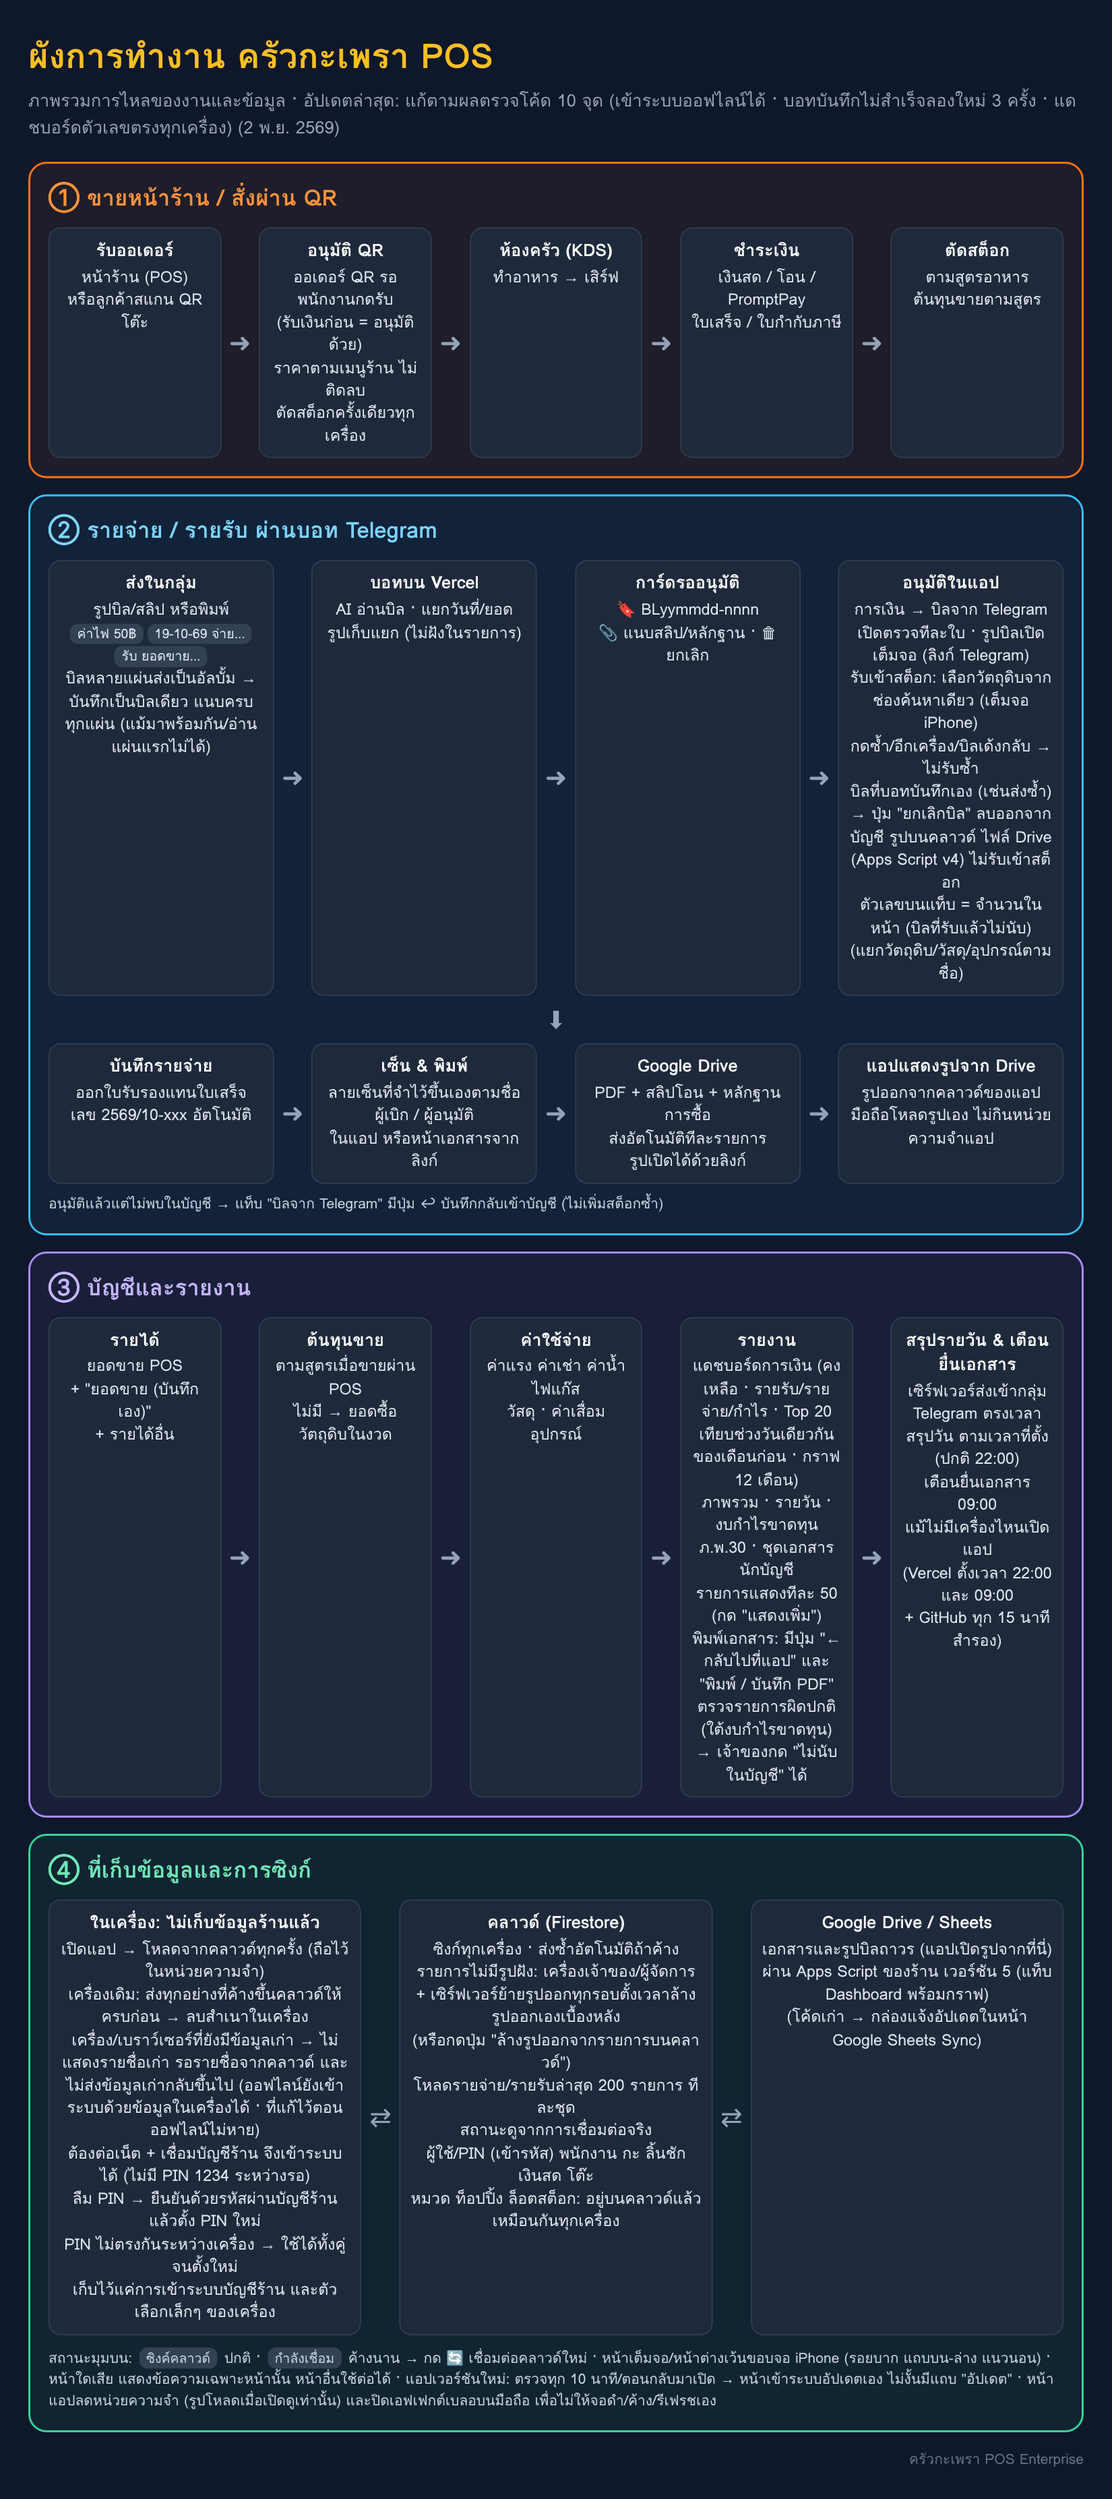
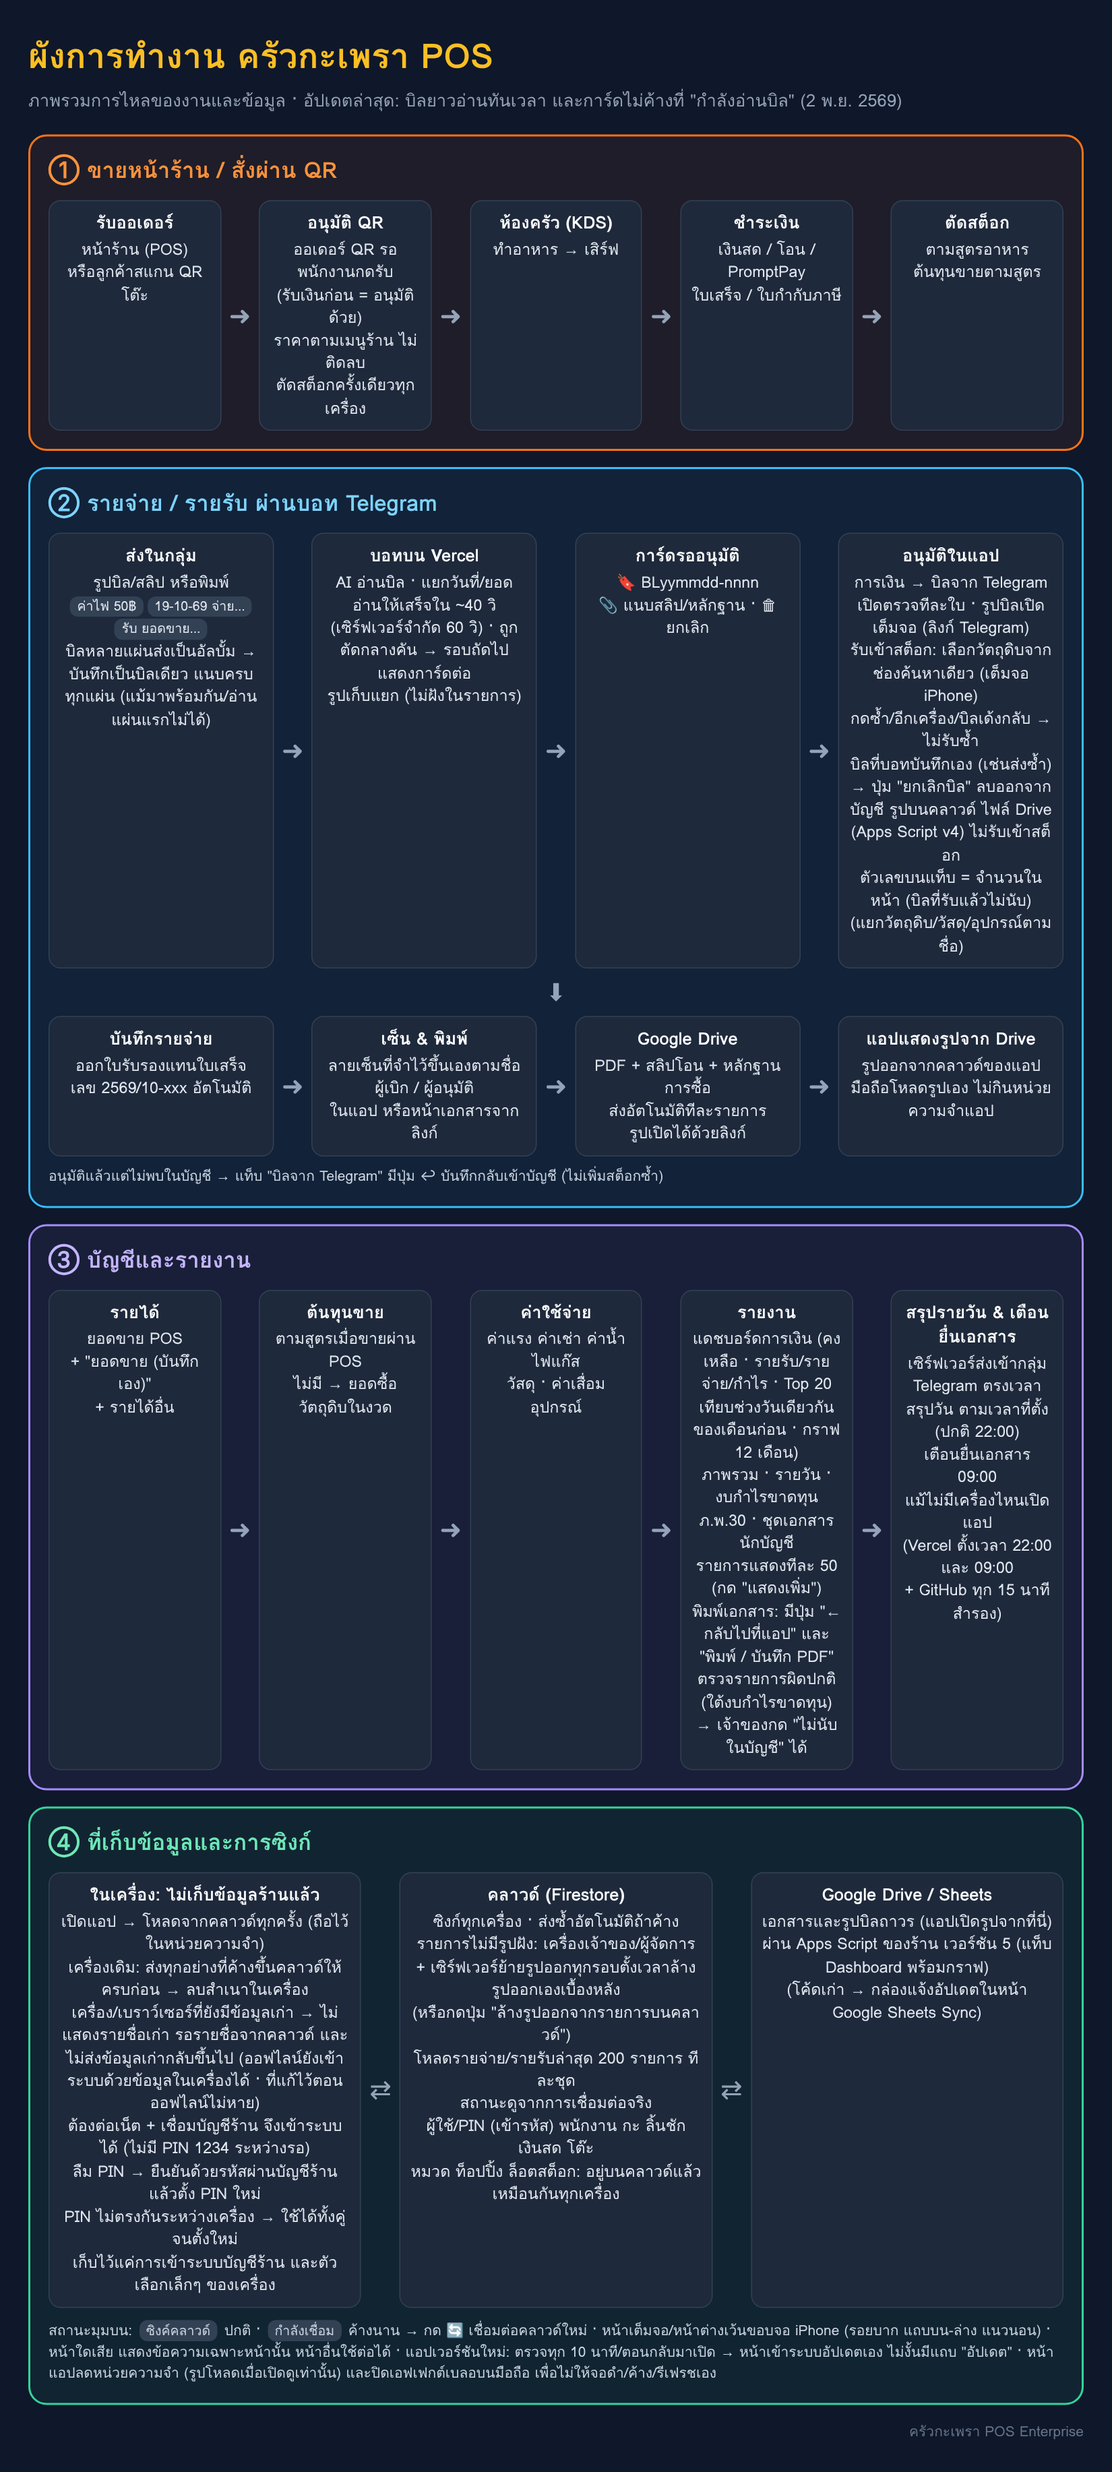
Long bills: read within the server's time limit, and a stopped card is finished
A long Makro bill took the reading past Vercel's 60 s: the expense was saved
but the function was stopped before the "reading…" message became the card,
and Telegram's next try skipped the bill as handled.

- The server reads with a deadline (40 s from the delivery's start): each
  call gets the time left, and no re-read or retry starts too close to it;
  medium effort on the server.
- The "reading…" message is remembered on the bill: a bill saved without its
  card gets it on Telegram's next try, and a reading tried again uses the same
  message.

Claude-Session: https://claude.ai/code/session_01Gq3UvYW4wv3hsVCXoh5wxy

diff --git a/docs/workflow/flow.html b/docs/workflow/flow.html
@@ -17,7 +17,7 @@ h1{margin:0 0 4px;font-size:34px;color:#fbbf24}.sub{color:#94a3b8;font-size:17px
 .foot{color:#64748b;font-size:14px;margin-top:6px;text-align:right}
 </style></head><body>
 <h1>ผังการทำงาน ครัวกะเพรา POS</h1>
-<div class="sub">ภาพรวมการไหลของงานและข้อมูล · อัปเดตล่าสุด: แก้ตามผลตรวจโค้ด 10 จุด (เข้าระบบออฟไลน์ได้ · บอทบันทึกไม่สำเร็จลองใหม่ 3 ครั้ง · แดชบอร์ดตัวเลขตรงทุกเครื่อง) (2 พ.ย. 2569)</div>
+<div class="sub">ภาพรวมการไหลของงานและข้อมูล · อัปเดตล่าสุด: บิลยาวอ่านทันเวลา และการ์ดไม่ค้างที่ "กำลังอ่านบิล" (2 พ.ย. 2569)</div>
 
 <div class="lane pos"><h2>① ขายหน้าร้าน / สั่งผ่าน QR</h2>
 <div class="row">
@@ -31,7 +31,7 @@ h1{margin:0 0 4px;font-size:34px;color:#fbbf24}.sub{color:#94a3b8;font-size:17px
 <div class="lane tg"><h2>② รายจ่าย / รายรับ ผ่านบอท Telegram</h2>
 <div class="row">
 <div class="box"><b>ส่งในกลุ่ม</b>รูปบิล/สลิป หรือพิมพ์<br><span class="tag">ค่าไฟ 50฿</span><span class="tag">19-10-69 จ่าย…</span><span class="tag">รับ ยอดขาย…</span><br>บิลหลายแผ่นส่งเป็นอัลบั้ม → บันทึกเป็นบิลเดียว แนบครบทุกแผ่น (แม้มาพร้อมกัน/อ่านแผ่นแรกไม่ได้)</div><div class="ar">➜</div>
-<div class="box"><b>บอทบน Vercel</b>AI อ่านบิล · แยกวันที่/ยอด<br>รูปเก็บแยก (ไม่ฝังในรายการ)</div><div class="ar">➜</div>
+<div class="box"><b>บอทบน Vercel</b>AI อ่านบิล · แยกวันที่/ยอด<br>อ่านให้เสร็จใน ~40 วิ (เซิร์ฟเวอร์จำกัด 60 วิ) · ถูกตัดกลางคัน → รอบถัดไปแสดงการ์ดต่อ<br>รูปเก็บแยก (ไม่ฝังในรายการ)</div><div class="ar">➜</div>
 <div class="box"><b>การ์ดรออนุมัติ</b>🔖 BLyymmdd-nnnn<br>📎 แนบสลิป/หลักฐาน · 🗑 ยกเลิก</div><div class="ar">➜</div>
 <div class="box"><b>อนุมัติในแอป</b>การเงิน → บิลจาก Telegram<br>เปิดตรวจทีละใบ · รูปบิลเปิดเต็มจอ (ลิงก์ Telegram)<br>รับเข้าสต็อก: เลือกวัตถุดิบจากช่องค้นหาเดียว (เต็มจอ iPhone)<br>กดซ้ำ/อีกเครื่อง/บิลเด้งกลับ → ไม่รับซ้ำ<br>บิลที่บอทบันทึกเอง (เช่นส่งซ้ำ) → ปุ่ม "ยกเลิกบิล" ลบออกจากบัญชี รูปบนคลาวด์ ไฟล์ Drive (Apps Script v4) ไม่รับเข้าสต็อก<br>ตัวเลขบนแท็บ = จำนวนในหน้า (บิลที่รับแล้วไม่นับ)<br>(แยกวัตถุดิบ/วัสดุ/อุปกรณ์ตามชื่อ)</div>
 </div>

diff --git a/src/services/botEngine.ts b/src/services/botEngine.ts
@@ -620,6 +620,29 @@ export async function handleBotUpdate(ctx: BotContext, store: BotStore, update: 
     return lateAlbumPage(group, ownerId, photo);
   };
 
+  /** The card of a bill whose delivery was stopped after it was saved (Telegram's next try shows it) */
+  const finishCard = async (item: PendingReceipt, replyTo: number) => {
+    try {
+      if (item.status === 'approved' && item.recordId) {
+        const e = item.recordId.startsWith('exp-') ? await store.getExpense(item.recordId) : null;
+        const i = !e && item.recordId.startsWith('inc-') ? await store.getIncome(item.recordId) : null;
+        const saved: Saved | null = e ? { kind: 'expense', rec: e } : i ? { kind: 'income', rec: i } : null;
+        if (saved) await showCard(saved, item.id, replyTo, item.progressMessageId);
+      } else if (item.status === 'pending') {
+        const text = pendingText(item);
+        if (item.progressMessageId) {
+          await editCard(item.progressMessageId, text, attachKeyboard(item.id));
+          await store.patchInbox(item.id, { cardMessageId: item.progressMessageId });
+        } else {
+          const sent = await sendQuiet({ text, reply_to_message_id: replyTo, reply_markup: attachKeyboard(item.id) });
+          if (sent?.message_id) await store.patchInbox(item.id, { cardMessageId: sent.message_id });
+        }
+      }
+    } catch {
+      // shown in the POS (การเงิน → บิลจาก Telegram) either way
+    }
+  };
+
   // ---------- Photos ----------
   const photo = photoFromUpdate(update);
   if (photo) {
@@ -645,7 +668,11 @@ export async function handleBotUpdate(ctx: BotContext, store: BotStore, update: 
     // Already handled (Telegram sent it again). One left reading was stopped part way (the server's
     // time limit): read again
     const handled = await store.inboxItem(id);
-    if (handled && handled.status !== 'reading') return;
+    if (handled && handled.status !== 'reading') {
+      // Saved, but stopped before its card was shown (the server's time limit): shown now
+      if (!handled.cardMessageId) await finishCard(handled, photo.messageId);
+      return;
+    }
     // An album: the pages of one bill sent together. Only the first is read; the rest join it
     if (photo.mediaGroupId) {
       const owner = await albumOwner(photo.mediaGroupId, id);
@@ -665,10 +692,14 @@ export async function handleBotUpdate(ctx: BotContext, store: BotStore, update: 
       status: 'reading',
       ...(photo.mediaGroupId ? { mediaGroupId: photo.mediaGroupId } : {})
     };
-    await store.putInbox(item);
+    // Tried again after being stopped: the same "reading…" message is used
+    const again = handled?.progressMessageId;
+    await store.putInbox(again ? { ...item, progressMessageId: again } : item);
     let pages: AlbumPage[] = [];
-    const progress = await sendQuiet({ text: '⏳ กำลังอ่านบิล...', reply_to_message_id: photo.messageId, allow_sending_without_reply: true });
-    const progressId = progress?.message_id as number | undefined;
+    if (again) await editCard(again, '⏳ กำลังอ่านบิลอีกครั้ง...');
+    const progress = again ? null : await sendQuiet({ text: '⏳ กำลังอ่านบิล...', reply_to_message_id: photo.messageId, allow_sending_without_reply: true });
+    const progressId = (again || progress?.message_id) as number | undefined;
+    if (progressId && !again) await store.patchInbox(id, { progressMessageId: progressId });
     try {
       const images = await ctx.readPhoto(photo);
       const data = toPendingData(await ctx.scan(images.scan, today), item.receivedAt.slice(0, 10));

diff --git a/src/utils/receiptOcr.ts b/src/utils/receiptOcr.ts
@@ -328,16 +328,24 @@ export type ReceiptModelCall = (args: {
   system: string;
   schema: typeof RECEIPT_OCR_SCHEMA;
   image: { data: string; mimeType: string };
+  /** Time left for this call (set when the reading has a deadline) */
+  timeoutMs?: number;
 }) => Promise<string>;
 
 const isRetryable = (err: unknown): boolean => Boolean(err && typeof err === 'object' && (err as { retryable?: boolean }).retryable);
 
-async function callWithRetry(call: ReceiptModelCall, args: Parameters<ReceiptModelCall>[0]): Promise<any> {
+/** Time left before a deadline (Infinity without one) */
+const left = (deadline?: number) => (deadline ? deadline - Date.now() : Infinity);
+/** A call needs at least this long to be worth starting */
+const MIN_CALL_MS = 12_000;
+
+async function callWithRetry(call: ReceiptModelCall, args: Parameters<ReceiptModelCall>[0], deadline?: number): Promise<any> {
+  const withTime = () => (deadline ? { ...args, timeoutMs: Math.max(1000, left(deadline)) } : args);
   try {
-    return parseModelJson(await call(args));
+    return parseModelJson(await call(withTime()));
   } catch (err) {
-    if (!isRetryable(err)) throw err;
-    return parseModelJson(await call(args));
+    if (!isRetryable(err) || left(deadline) < MIN_CALL_MS) throw err;
+    return parseModelJson(await call(withTime()));
   }
 }
 
@@ -348,21 +356,24 @@ async function callWithRetry(call: ReceiptModelCall, args: Parameters<ReceiptMod
 export async function runReceiptOcr(
   call: ReceiptModelCall,
   image: { data: string; mimeType: string },
-  options: { todayIso?: string } = {}
+  /** deadline (ms since epoch): no new call starts too close to it, and calls stop at it */
+  options: { todayIso?: string; deadline?: number } = {}
 ): Promise<VerifiedReceiptData> {
+  const { deadline } = options;
   const todayIso = options.todayIso || new Date().toISOString().split('T')[0];
   const base = { system: RECEIPT_OCR_SYSTEM_INSTRUCTION, schema: RECEIPT_OCR_SCHEMA, image };
 
-  const firstRaw = await callWithRetry(call, { ...base, prompt: buildReceiptOcrPrompt(todayIso) });
+  const firstRaw = await callWithRetry(call, { ...base, prompt: buildReceiptOcrPrompt(todayIso) }, deadline);
   const first = verifyReceiptExtraction(firstRaw, todayIso);
-  if (first.hardProblems.length === 0) return first.data;
+  // No time for a re-read: the first reading stands (its warnings are shown)
+  if (first.hardProblems.length === 0 || left(deadline) < MIN_CALL_MS * 1.5) return first.data;
 
   // Second pass: targeted re-read of the numbers that did not add up
   try {
     const secondRaw = await callWithRetry(call, {
       ...base,
       prompt: buildReceiptRecheckPrompt(todayIso, firstRaw, first.hardProblems)
-    });
+    }, deadline);
     const second = verifyReceiptExtraction(secondRaw, todayIso);
     const better =
       second.hardProblems.length < first.hardProblems.length ||

diff --git a/src/server/telegramWebhook.ts b/src/server/telegramWebhook.ts
@@ -24,6 +24,8 @@ const KEEP_SEEN = 60;
 const STALE_WORK_MS = 75_000;
 /** A delivery that failed is tried this many times before the chat is told */
 const MAX_TRIES = 3;
+/** Time a bill may be read for, from the start of the delivery (the rest saves it and shows the card) */
+const READ_BUDGET_MS = 40_000;
 /** Firestore documents hold at most 1 MB; pictures that would not fit stay in the Telegram chat */
 const DOC_LIMIT = 900_000;
 const KEEP_PHOTO_BYTES = 450_000;
@@ -377,6 +379,7 @@ export interface WebhookDeps {
 
 /** Handles one delivery from Telegram. Returns the HTTP status to answer with. */
 export async function handleWebhook(req: WebhookRequest, deps: WebhookDeps = {}): Promise<{ status: number; body: Record<string, unknown> }> {
+  const started = Date.now();
   if (!req.secret || !req.sealed || !req.branchId || !req.projectId || !req.apiKey) return { status: 401, body: { error: 'missing' } };
   const refreshToken = await openWithSecret(req.sealed, req.secret);
   // Not from Telegram (or from an address replaced since): refused
@@ -482,7 +485,13 @@ export async function handleWebhook(req: WebhookRequest, deps: WebhookDeps = {})
         if (!key) throw new Error('ยังไม่ได้ตั้งค่า ANTHROPIC_API_KEY บน Vercel');
         const [head, data] = image.split(';base64,');
         const ai = createClaudeJsonCaller({ apiKey: key });
-        return runReceiptOcr(({ prompt, system, schema, image: img }) => ai({ prompt, system, schema, image: img, effort: 'high' }), { data, mimeType: head.replace(/^data:/, '') || 'image/jpeg' }, { todayIso: today });
+        // Vercel stops the function at 60 s: the reading must be done well before, so the card is
+        // shown and the bill saved (a long bill read slowly was saved but its card never came)
+        return runReceiptOcr(
+          ({ prompt, system, schema, image: img, timeoutMs }) => ai({ prompt, system, schema, image: img, effort: 'medium', timeoutMs }),
+          { data, mimeType: head.replace(/^data:/, '') || 'image/jpeg' },
+          { todayIso: today, deadline: started + READ_BUDGET_MS }
+        );
       });
 
     const ctx: BotContext = {

diff --git a/src/server/__tests__/telegramWebhook.test.ts b/src/server/__tests__/telegramWebhook.test.ts
@@ -413,6 +413,18 @@ describe('Telegram webhook on Vercel', () => {
     expect(Object.keys((cloud.read('branches/b1/config/drive_trash') as any).ids).sort()).toEqual(['FILEID_1234567', 'PDFID_1234567']);
   });
 
+  it('a bill saved but stopped before its card shows the card on Telegram\'s next try', async () => {
+    cloud.write('expenses/exp-77', { id: 'exp-77', branchId: 'b1', date: '2026-10-05', category: 'raw_material', title: 'แม็คโคร', amount: 1812 });
+    cloud.write('branches/b1/config/telegram_inbox', {
+      byId: { 'tg--100-170': { id: 'tg--100-170', source: 'telegram', chatId: '-100', messageId: 170, fileId: 'L170', senderName: 'แม่ครัว', caption: '', receivedAt: '2026-10-05T00:00:00.000Z', kind: 'expense', status: 'approved', recordId: 'exp-77', progressMessageId: 905 } }
+    });
+    await deliver(photoUpdate(170));
+    const card = cloud.telegram.find(t => t.method === 'editMessageText' && t.body.message_id === 905);
+    expect(card?.body.text).toContain('1,812.00');
+    expect((cloud.read('branches/b1/config/telegram_inbox') as any).byId['tg--100-170'].cardMessageId).toBe(905);
+    expect([...cloud.docs.keys()].filter(k => k.startsWith('expenses/'))).toHaveLength(1);
+  });
+
   it('handles a delivery Telegram sends twice only once', async () => {
     await deliver(photoUpdate(11));
     await deliver(photoUpdate(11));

diff --git a/src/utils/claudeClient.ts b/src/utils/claudeClient.ts
@@ -22,6 +22,8 @@ export interface ClaudeJsonRequest {
   /** `low` for quick suggestions at the counter, `high` (default) for analysis and OCR. */
   effort?: ClaudeEffort;
   maxTokens?: number;
+  /** Give up after this long (default 180 s), e.g. to answer inside a server's time limit */
+  timeoutMs?: number;
 }
 
 /** Structured outputs require every object schema to forbid extra keys. */
@@ -94,7 +96,7 @@ export function createClaudeJsonCaller(options: { apiKey?: string; browser?: boo
           format: { type: 'json_schema', schema: toStructuredSchema(req.schema) }
         },
         messages: [{ role: 'user', content }]
-      });
+      }, req.timeoutMs ? { timeout: req.timeoutMs, maxRetries: 0 } : undefined);
 
       if (response.stop_reason === 'refusal') {
         throw new ClaudeCallError('Claude ปฏิเสธคำขอนี้', false);

diff --git a/src/utils/__tests__/receiptOcr.test.ts b/src/utils/__tests__/receiptOcr.test.ts
@@ -66,6 +66,18 @@ describe('runReceiptOcr', () => {
     expect(data.passes).toBe(2);
   });
 
+  it('with a deadline: each call gets the time left, and no re-read starts too close to it', async () => {
+    const timeouts: (number | undefined)[] = [];
+    const data = await runReceiptOcr(async ({ timeoutMs }) => {
+      timeouts.push(timeoutMs);
+      return JSON.stringify({ ...goodReceipt, amount: 820, vatAmount: 53.64 });
+    }, image, { todayIso: TODAY, deadline: Date.now() + 15_000 });
+    expect(timeouts).toHaveLength(1);
+    expect(timeouts[0]).toBeGreaterThan(10_000);
+    expect(timeouts[0]).toBeLessThanOrEqual(15_000);
+    expect(data.passes).toBe(1);
+  });
+
   it('retries once on a retryable error but not on a bad key', async () => {
     let attempts = 0;
     const data = await runReceiptOcr(async () => {

diff --git a/src/types.ts b/src/types.ts
@@ -838,6 +838,8 @@ export interface PendingReceipt {
   cardMessageId?: number;
   /** More pictures attached to it (slip, receipt, proof of purchase), after the first in fileId */
   extraFileIds?: string[];
+  /** The bot's "reading…" message (turned into the card; used again when the reading is tried again) */
+  progressMessageId?: number;
   /** Sent in an album (several photos at once): the album's other photos are pages of this bill */
   mediaGroupId?: string;
   /** Recorded by the bot as a purchase of goods: waits for a manager to receive it into stock */
